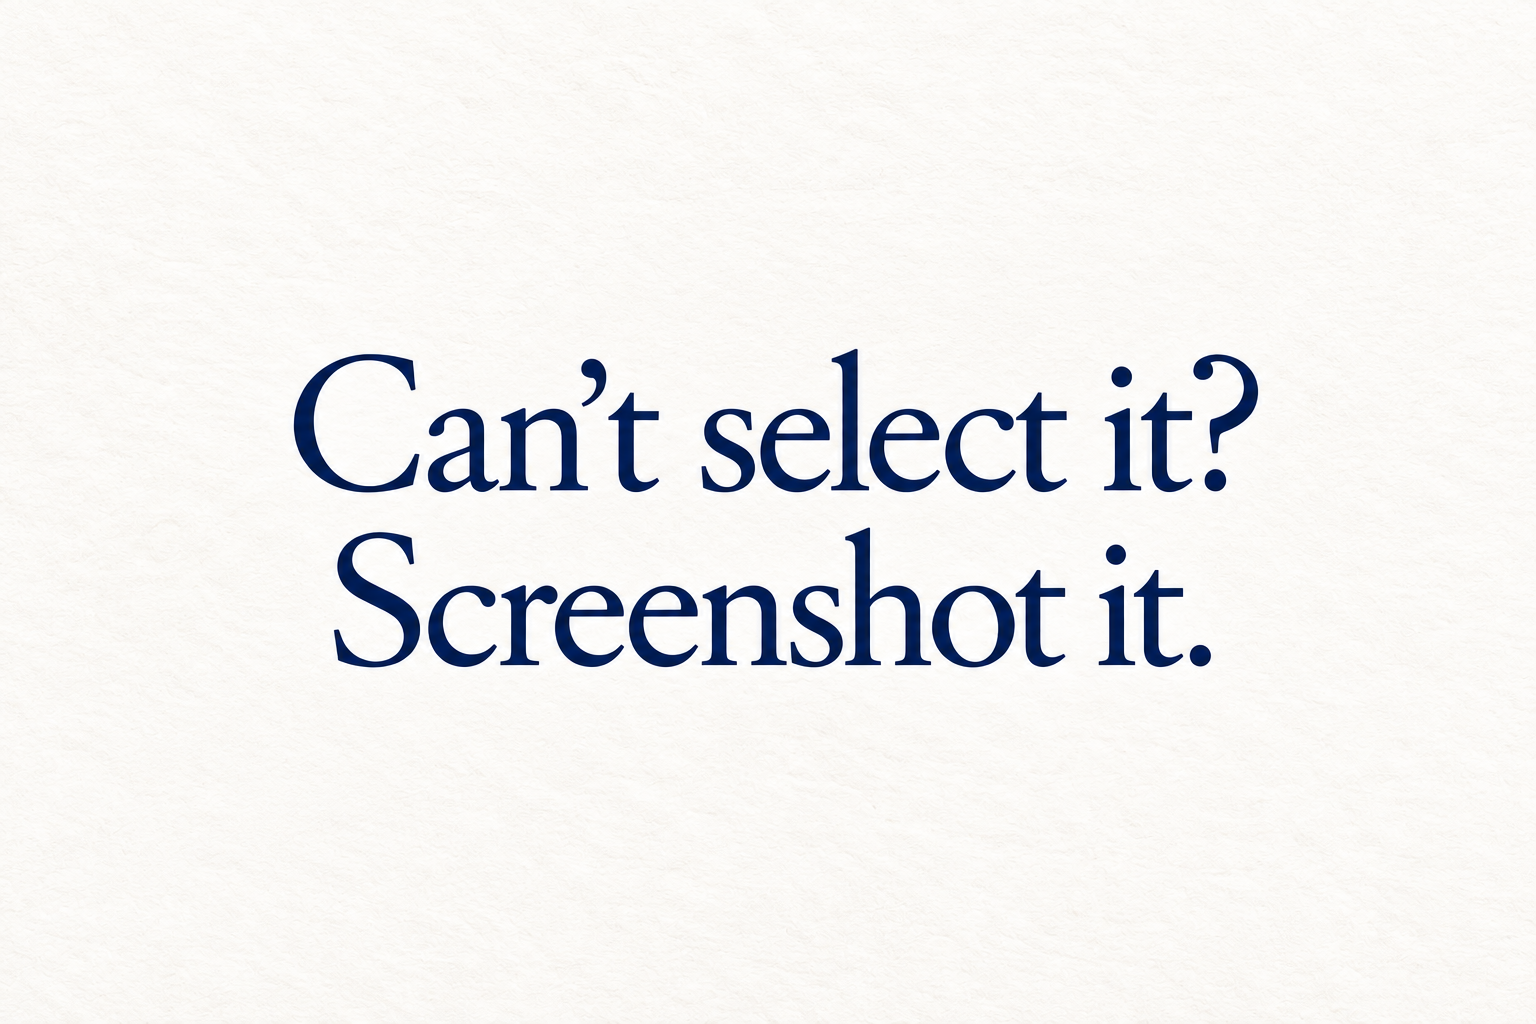
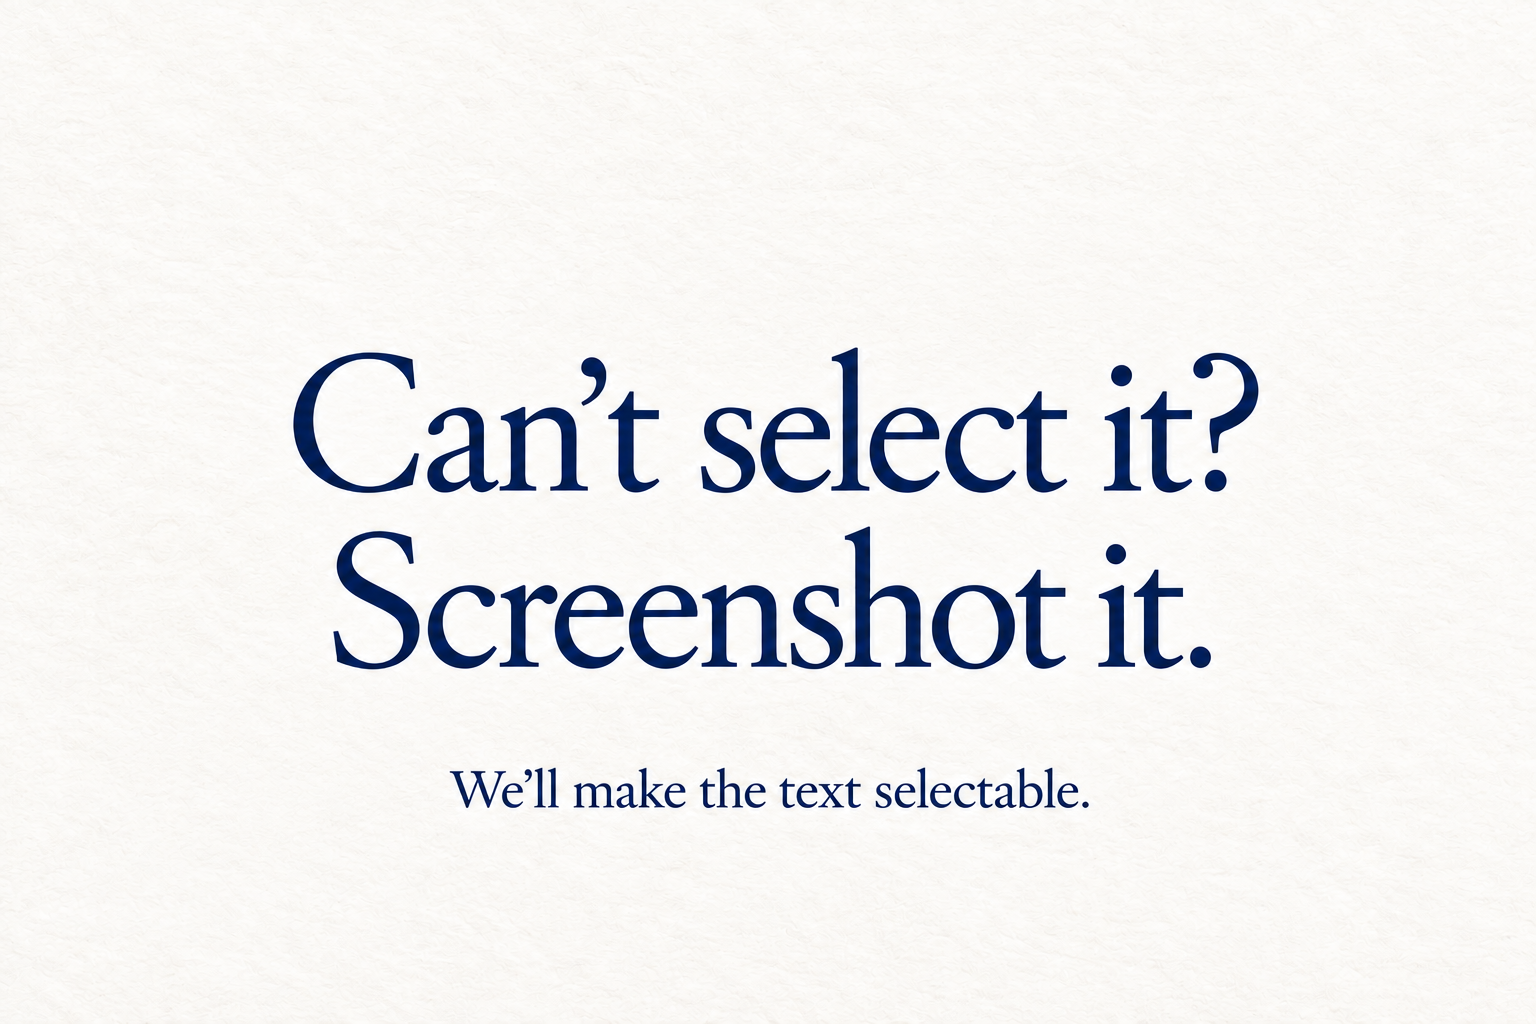
Add selectable-text explanation to demo asset

diff --git a/docs/feature-showcase/assets/demos/text-only/README.md b/docs/feature-showcase/assets/demos/text-only/README.md
@@ -1,5 +1,7 @@
 # 純文字截圖素材
 
-[cant-select-upright.png](cant-select-upright.png)：目前使用的近白紙紋、深藍直立襯線字圖片。
+[cant-select-upright.png](cant-select-upright.png)：目前使用的近白紙紋、深藍直立襯線字圖片，主文下方已加入「We’ll make the text selectable.」。
 
 使用者已完成截圖，三張實拍存於 [原始截圖](../../screenshots/lettering)。舊配色與預覽已刪除。
+
+現有成圖仍使用先前的實拍，由排版 HTML 補上這句話。以新版素材重新截圖後，需移除 Glass 與 Space Gray 的 `screenshot-lettering.html` 中 `source-context` 補述，避免重複顯示。
